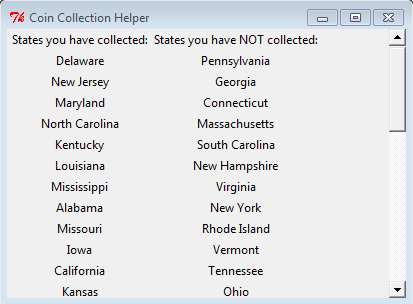
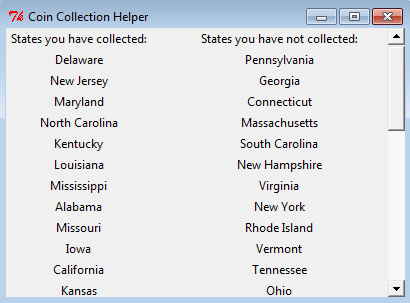
Even out spacing in window shown in demo image #3

diff --git a/gui.py b/gui.py
@@ -145,11 +145,11 @@ class GUI(Frame):
         frame.bind("<Configure>", frame_configure)
 
         Label(frame, text="States you have collected:").grid(row=0, column=0)
-        Label(frame, text="States you have NOT collected:").grid(row=0, column=1)
+        Label(frame, text="\tStates you have not collected:").grid(row=0, column=1)
         for x in range(len(collected)):
             Label(frame, text=collected[x]).grid(row=x+1, column=0)
         for x in range(len(uncollected)):
-            Label(frame, text=uncollected[x]).grid(row=x+1, column=1)
+            Label(frame, text="\t" + uncollected[x]).grid(row=x+1, column=1)
 
     # Setup: set title, populate images and vars lists, create table
     def main(self):
